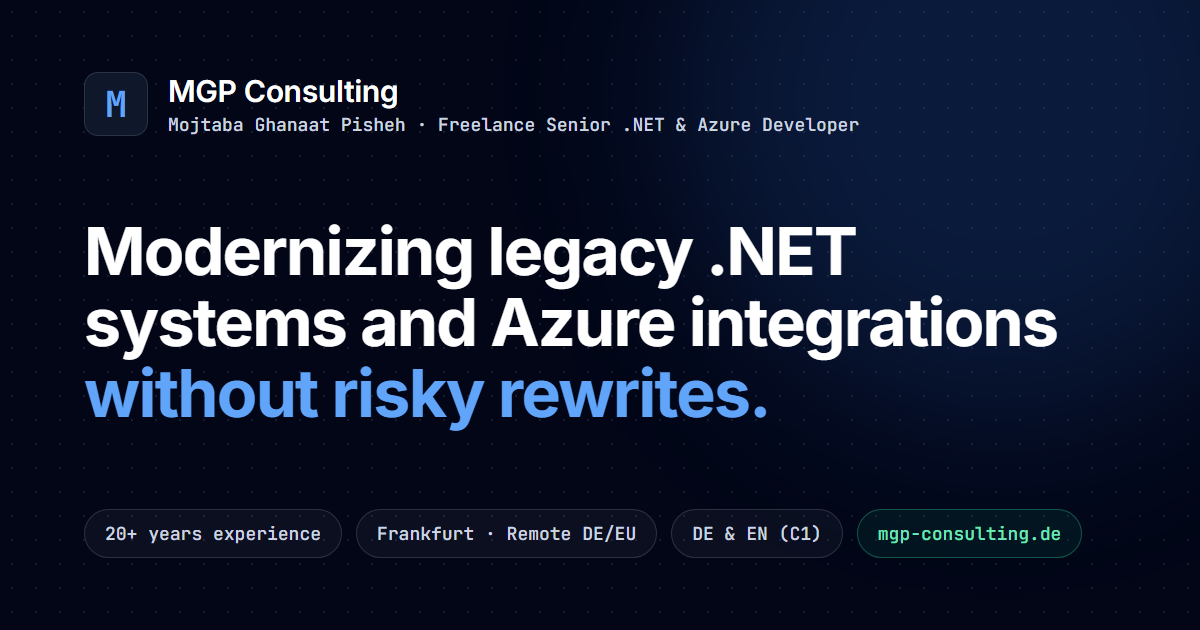
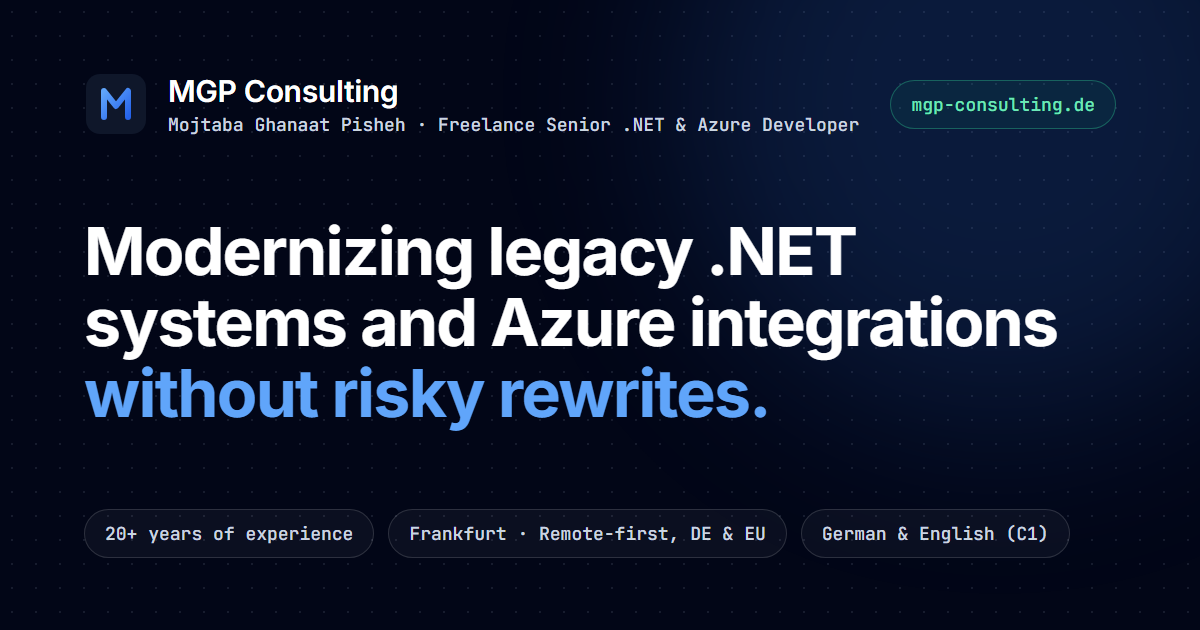
fix(brand): render the social card from the site copy, robust PNG checks
- og-card.html is now a template filled from src/i18n/translations/en.ts
  (loaded through Vite) and public/favicon.svg, so the card cannot drift
  from the hero copy
- A screenshot is accepted only once it ends with the PNG IEND chunk,
  not when its size stops changing, so a partial write is never copied
  into public/
- A failed cleanup of the scratch folder only warns instead of failing
  a successful run or hiding the real error
- favicon.svg draws the "M" as a path, so every browser shows the same
  shape (SVG favicons cannot load web fonts); icons re-rendered

Changed region(s): [[0.185, 0.8143, 0.8942, 0.8746], [0.74, 0.1508, 0.925, 0.181], [0.0617, 0.1206, 0.1233, 0.2111]]

diff --git a/scripts/brand/og-card.html b/scripts/brand/og-card.html
@@ -1,17 +1,18 @@
 <!doctype html>
 <!--
-  Social preview card (public/og.png, 1200x630). Rendered by scripts/brand/render.mjs.
+  Template for the social preview card (public/og.png, 1200x630). Do not open it directly:
+  scripts/brand/render.mjs fills the double-brace placeholders from src/i18n/translations/en.ts and
+  public/favicon.svg, so the card always matches the site copy.
   Keep it free of dates such as the availability month: the image is cached by LinkedIn and others.
 -->
 <html lang="en">
 <head>
 <meta charset="UTF-8" />
 <style>
-  @font-face { font-family: "Inter"; font-weight: 400; src: url("../../node_modules/@fontsource/inter/files/inter-latin-400-normal.woff2") format("woff2"); }
-  @font-face { font-family: "Inter"; font-weight: 600; src: url("../../node_modules/@fontsource/inter/files/inter-latin-600-normal.woff2") format("woff2"); }
-  @font-face { font-family: "Inter"; font-weight: 700; src: url("../../node_modules/@fontsource/inter/files/inter-latin-700-normal.woff2") format("woff2"); }
-  @font-face { font-family: "JetBrains Mono"; font-weight: 500; src: url("../../node_modules/@fontsource/jetbrains-mono/files/jetbrains-mono-latin-500-normal.woff2") format("woff2"); }
-  @font-face { font-family: "JetBrains Mono"; font-weight: 700; src: url("../../node_modules/@fontsource/jetbrains-mono/files/jetbrains-mono-latin-700-normal.woff2") format("woff2"); }
+  @font-face { font-family: "Inter"; font-weight: 400; src: url("{{fontBase}}/inter/files/inter-latin-400-normal.woff2") format("woff2"); }
+  @font-face { font-family: "Inter"; font-weight: 600; src: url("{{fontBase}}/inter/files/inter-latin-600-normal.woff2") format("woff2"); }
+  @font-face { font-family: "Inter"; font-weight: 700; src: url("{{fontBase}}/inter/files/inter-latin-700-normal.woff2") format("woff2"); }
+  @font-face { font-family: "JetBrains Mono"; font-weight: 500; src: url("{{fontBase}}/jetbrains-mono/files/jetbrains-mono-latin-500-normal.woff2") format("woff2"); }
 
   * { box-sizing: border-box; margin: 0; padding: 0; }
   html, body { width: 1200px; height: 630px; overflow: hidden; }
@@ -31,13 +32,9 @@
     position: absolute; top: -220px; right: -120px; width: 640px; height: 640px;
     border-radius: 50%; background: rgba(59, 130, 246, 0.16); filter: blur(90px);
   }
-  .brand { position: relative; display: flex; align-items: center; gap: 20px; }
-  .mark {
-    width: 64px; height: 64px; border-radius: 14px; background: #0f172a;
-    border: 1px solid rgba(255, 255, 255, 0.12);
-    display: flex; align-items: center; justify-content: center;
-    font-family: "JetBrains Mono", monospace; font-weight: 700; font-size: 36px; color: #60a5fa;
-  }
+  .top { position: relative; display: flex; align-items: center; justify-content: space-between; gap: 20px; }
+  .brand { display: flex; align-items: center; gap: 20px; }
+  .mark svg { display: block; width: 64px; height: 64px; }
   .brand-name { font-size: 30px; font-weight: 600; letter-spacing: -0.01em; }
   .brand-sub { font-family: "JetBrains Mono", monospace; font-weight: 500; font-size: 18px; color: #cbd5e1; margin-top: 4px; }
   h1 {
@@ -45,7 +42,7 @@
     max-width: 1000px;
   }
   h1 span { color: #60a5fa; }
-  .facts { position: relative; display: flex; gap: 14px; }
+  .facts { position: relative; display: flex; flex-wrap: wrap; gap: 14px; }
   .fact {
     font-family: "JetBrains Mono", monospace; font-weight: 500; font-size: 18px; color: #cbd5e1; white-space: nowrap;
     border: 1px solid rgba(255, 255, 255, 0.14); background: rgba(255, 255, 255, 0.04);
@@ -57,21 +54,21 @@
 <body>
   <div class="glow"></div>
 
-  <div class="brand">
-    <div class="mark">M</div>
-    <div>
-      <div class="brand-name">MGP Consulting</div>
-      <div class="brand-sub">Mojtaba Ghanaat Pisheh · Freelance Senior .NET &amp; Azure Developer</div>
+  <div class="top">
+    <div class="brand">
+      <div class="mark">{{mark}}</div>
+      <div>
+        <div class="brand-name">{{companyName}}</div>
+        <div class="brand-sub">{{name}} · {{role}}</div>
+      </div>
     </div>
+    <div class="fact site">mgp-consulting.de</div>
   </div>
 
-  <h1>Modernizing legacy .NET systems and Azure integrations <span>without risky rewrites.</span></h1>
+  <h1>{{headline}} <span>{{headlineAccent}}</span></h1>
 
   <div class="facts">
-    <div class="fact">20+ years experience</div>
-    <div class="fact">Frankfurt · Remote DE/EU</div>
-    <div class="fact">DE &amp; EN (C1)</div>
-    <div class="fact site">mgp-consulting.de</div>
+    {{facts}}
   </div>
 </body>
 </html>

diff --git a/README.md b/README.md
@@ -20,7 +20,7 @@ npm run lint       # TypeScript type-check
 npm test           # Vitest unit tests
 npm run build      # production build into dist/ (+ /impressum and /datenschutz copies)
 npm run preview    # serve dist/ locally
-npm run brand:render  # regenerate og.png, apple-touch-icon.png and favicon.ico (needs local Edge or Chrome)
+npm run brand:render  # regenerate og.png and the icons after changing hero copy or favicon.svg (needs local Edge or Chrome)
 ```
 
 ## Where things live
